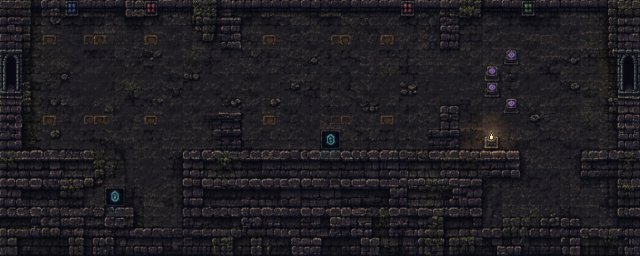
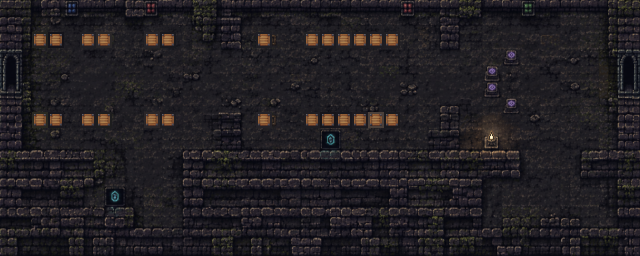
fix: replace chapel pew boxes with wooden crate sprites

diff --git a/SilentWitch/data/licenses/ASSET_CREDITS.md b/SilentWitch/data/licenses/ASSET_CREDITS.md
@@ -73,6 +73,7 @@ lisensi pada halaman resmi sumber. Jangan menghapus atribusi yang diwajibkan.
 | `torch_anim.png` (obor genggam Jalur Tebing) | Natural_Privateer | OpenGameArt, "Simple Torch Animation 16x16" (`opengameart.org/content/simple-torch-animation-16x16`) | **CC0** | 2026-11-21 | Sheet 48x32 = 6 frame 16x16 (3 kolom x 2 baris). Dipakai obor yang diambil di pintu masuk Jalur Tebing dan digenggam pemain saat berjalan; cahayanya menjadi satu-satunya penerang area gelap |
 | `bg_valley_floor.png`, `flame_anim.png`, `water_anim.png` (Dasar Lembah) | belum diketahui | render 1983x793 & tileset 1254x1254 dari pengguna | **belum terverifikasi** | 2026-11-21 | Render di-downscale ke 640x256 lewat `BackgroundBuilder`-style area-average; nyala api diekstrak 6 frame dari altar, riak air dari variasi tile air. Dipakai di area `valley_floor` |
 | `hero_sit.png` (pose duduk ksatria) | belum diketahui | lembar "Lembar Sprite Ksatria Berkemah" 1536x1024 dari pengguna | **belum terverifikasi** | 2026-11-21 | 4 pose (kiri/kanan/depan/belakang) dipotong 2x2, latar putih dibuang, downscale area-weighted tinggi 28 px dengan sedikit boost kecerahan. Dipakai saat pemain istirahat di dekat api unggun |
+| `bg_chapel_whispers.png` — peti kayu (dimodifikasi) | belum diketahui | aset peti kayu dari `Lembar Sprite Peti Kayu Pixel Art.png` (1536x1024, dari pengguna) | **belum terverifikasi** | 2026-11-24 | Kotak bangku kecil di latar diganti dengan varian peti kayu dari sheet, di-scale ke 12x12 px dan digelapkan supaya menyatu dengan suasana kapel |
 | `brazier_anim.png` (brazier batu dungeon beranimasi) | belum diketahui | animasi GIF "Animasi Brazier Api di Dungeon Masonry.gif" (380x508, 8 frame) dari pengguna | **belum terverifikasi** | 2026-11-22 | Diekstrak 8 frame (16x32 per frame), latar belakang gua di-keying transparan dengan tetap menjaga kehalusan perimeter api dan partikel percikan, disusun horizontal (128x32). Menggantikan nyala api prosedural/flame_anim di seluruh area gua (`valley_floor`, `valley_ruins`, tile `Z`). |
 
 Bila berkas sprite di atas dihapus, game otomatis kembali memakai penyihir

diff --git a/SilentWitch/CHANGELOG.md b/SilentWitch/CHANGELOG.md
@@ -4,6 +4,12 @@ Semua perubahan penting pada proyek ini dicatat di file ini.
 Format mengikuti [Keep a Changelog](https://keepachangelog.com/) dan
 [Semantic Versioning](https://semver.org/).
 
+## [1.4.46] - 2026-11-24
+
+### Changed
+
+- **Peti kayu di Chapel of Whispers (`bg_chapel_whispers.png`):** kotak-kotak bangku kecil di latar diganti dengan sprite peti dari `Lembar Sprite Peti Kayu Pixel Art.png` (varian peti papan horizontal), di-scale ke 12x12 px dan digelapkan agar menyatu dengan latar kapel. Kredit aset ditambahkan di `ASSET_CREDITS.md`.
+
 ## [1.4.43] - 2026-11-24
 
 ### Fixed
